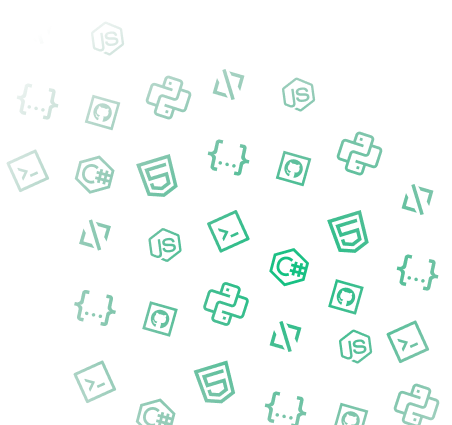
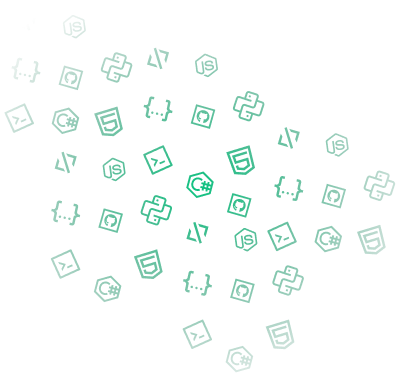
fix technology mask

diff --git a/src/components/TechnologyBanner/styles.tsx b/src/components/TechnologyBanner/styles.tsx
@@ -1,3 +1,4 @@
+import Image from 'next/image';
 import styled from 'styled-components';
 import { Header1, Subtitle, Header32, Paragraph1, Styles } from '@/styles';
 
@@ -11,6 +12,7 @@ export const TechnologyContainer = styled.div`
   width: 100vw;
   padding: 8rem 25px 60px 25px;
   background: ${({ theme }) => theme.colors.mainBack};
+  overflow: hidden;
 `;
 export const ContainerMainText = styled.div`
   margin-bottom: 48px;
@@ -103,4 +105,31 @@ export const ListTecnologys = styled(Paragraph1).attrs({ as: 'li' })`
   color: ${({ theme }) => theme.colors.white};
   padding: 2px 0;
   width: auto;
+`;
+
+
+
+export const StyledMaskTechnology = styled(Image)`
+  position: absolute;
+  bottom: -40px;
+  right: -130px;
+  opacity: 20%;
+  @media (${Styles.devices.tablet}) {
+    top: -100px;
+    right: 0px;
+    left: 0px;
+    margin: 0 auto;
+  }
+`;
+export const StyledMaskTechnologyInvert = styled(Image)`
+  position: absolute;
+  bottom: 0px;
+  left: -40px;
+  opacity: 20%;
+  @media (${Styles.devices.tablet}) {
+    bottom: -50px;
+    right: 0px;
+    left: -0px;
+    margin: 0 auto;
+  }
 `;

diff --git a/src/app/(components)/(testimony)/styles.tsx b/src/app/(components)/(testimony)/styles.tsx
@@ -11,6 +11,7 @@ export const SectionContainer = styled.div`
   width: 100vw;
   padding: 8rem 25px 60px 25px;
   background-color: ${({ theme }) => theme.colors.gray};
+  overflow: hidden;
 
   @media (${Styles.devices.tablet}) {
     display: none;
@@ -45,31 +46,9 @@ export const TestimoniesContainer = styled.div`
 
 export const Mask = styled(Image)`
   position: absolute;
-  bottom: 0px;
-  right: 0px;
+  bottom: -100px;
+  right: -100px;
   opacity: 20%;
-`;
-export const StyledMaskTechnology = styled(Mask)`
-  position: absolute;
-  bottom: 0px;
-  right: 0px;
-  opacity: 20%;
-  @media (${Styles.devices.tablet}) {
-    position: absolute;
-    top: 0px;
-    opacity: 20%;
-  }
-`;
-export const StyledMaskTechnologyInvert = styled(Mask)`
-  position: absolute;
-  bottom: 0px;
-  left: 0px;
-  opacity: 20%;
-  @media (${Styles.devices.tablet}) {
-    position: absolute;
-    bottom: 0px;
-    left: 20%;
-  }
 `;
 
 export const LogoBackground = styled(Image)<{

diff --git a/src/components/TeamSection/style.tsx b/src/components/TeamSection/style.tsx
@@ -60,7 +60,7 @@ export const ContactContainer = styled.div`
     margin: 0;
     gap: 25px;
   }
-  
+
   @media (${Styles.devices.tabletL}) {
     width: 100%;
   }
@@ -141,6 +141,23 @@ export const BgImage = styled(Image)`
   transform: translate(-3.1rem, 15ex);
   width: 26.5415rem;
   height: 25.24469rem;
+
+  @media (${Styles.devices.laptopL}) {
+    transform: translate(-2rem, 21ex);
+    width: 20.5415rem;
+    height: 20.24469rem;
+  }
+
+  @media (${Styles.devices.laptop}) {
+    transform: translate(-1.5rem, 15ex);
+    width: 16.5415rem;
+    height: 16.24469rem;
+  }
+
+  @media (${Styles.devices.tabletL}) {
+    width: 26.5415rem;
+    height: 25.24469rem;
+  }
 `;
 
 export const ProfilePicture = styled(Image)`

diff --git a/src/components/TechnologyBanner/technology-banner.tsx b/src/components/TechnologyBanner/technology-banner.tsx
@@ -1,7 +1,6 @@
 'use client';
 import Image from 'next/image';
-import { StyledMaskTechnology , StyledMaskTechnologyInvert } from '@/app/(components)/(testimony)/styles';
-import TechnologyMask from '@/images/technology-mask.png';
+import TechnologyMask from '@/images/technology-mask.svg';
 import reactLogo from '../../../public/react-logo.svg';
 import cSharpLogo from '../../../public/c-logo.svg';
 import azureLogo from '../../../public/azure-logo.svg';
@@ -20,6 +19,8 @@ import {
   UnorderedListTecnology,
   ListTecnologys,
   WrapContainer,
+  StyledMaskTechnology,
+  StyledMaskTechnologyInvert
 } from './styles';
 
 

diff --git a/src/components/TeamSection/contact-session.tsx b/src/components/TeamSection/contact-session.tsx
@@ -1,6 +1,6 @@
 "use client"
 import { useTranslation } from 'react-i18next';
-import TechnologyMask from '@/images/technology-mask.png';
+import TechnologyMask from '@/images/technology-mask.svg';
 import { ContactButton } from '../ContactButton';
 import { BgImage, ContactContainer, Header, Paragraph, TextContainer, StyledLink } from './style';
 

diff --git a/src/components/Form/form.tsx b/src/components/Form/form.tsx
@@ -2,7 +2,7 @@
 
 import Link from 'next/link';
 import { Trans, useTranslation } from 'react-i18next';
-import BgImage from '@/images/technology-mask.png';
+import BgImage from '@/images/technology-mask.svg';
 import { ContactButton } from '../ContactButton';
 import {
   BackgroundImageRight,

diff --git a/src/components/TechnologyBanner/index.ts b/src/components/TechnologyBanner/index.ts
@@ -1,2 +1,2 @@
-export * from './technologybanner'
+export * from './technology-banner'
 
